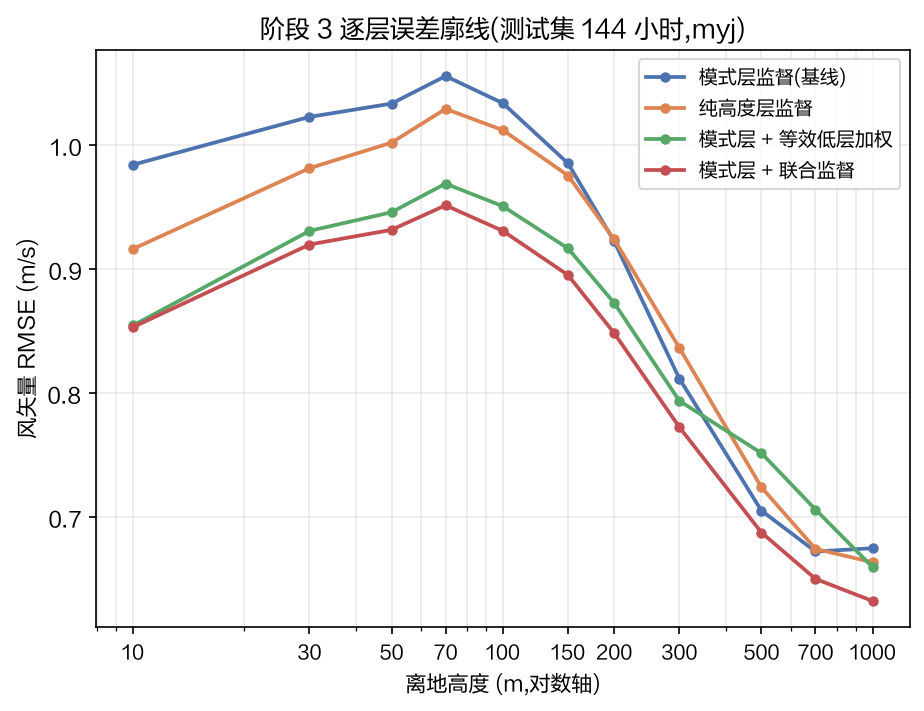
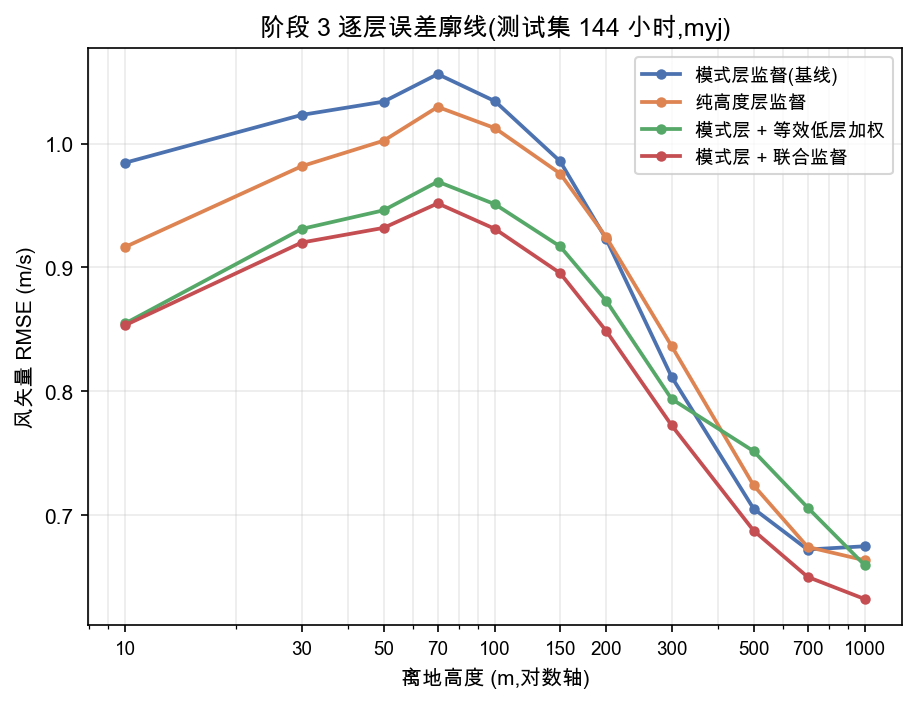
report 10-09: add case snapshot figure; fix CJK font fallback (all 10 figures re-rendered, were tofu boxes)

diff --git a/scripts/plot_report_10_09.py b/scripts/plot_report_10_09.py
@@ -11,8 +11,18 @@ matplotlib.use("Agg")
 import matplotlib.pyplot as plt
 import numpy as np
 
-plt.rcParams["font.family"] = "FZLanTingHeiS-R-GB"
 plt.rcParams["axes.unicode_minus"] = False
+# 中文字体:优先 FZLanTingHeiS-R-GB(原设定),缺失则按可用列表回退(避免渲染成方框)
+from matplotlib import font_manager as _fm  # noqa: E402
+
+_avail_fonts = {f.name for f in _fm.fontManager.ttflist}
+for _cand in ("FZLanTingHeiS-R-GB", "Arial Unicode MS", "PingFang HK", "Heiti TC",
+              "Hiragino Sans GB", "Songti SC", "STHeiti"):
+    if _cand in _avail_fonts:
+        plt.rcParams["font.family"] = _cand
+        break
+else:
+    plt.rcParams["font.family"] = "sans-serif"
 
 ROOT = os.path.dirname(os.path.dirname(os.path.abspath(__file__)))
 OUT = os.path.join(ROOT, "组会汇报", "2026-10-09")

diff --git a/组会汇报/2026-10-09/组会汇报-大纲阶段进展.md b/组会汇报/2026-10-09/组会汇报-大纲阶段进展.md
@@ -123,6 +123,10 @@
 
 > 读法:按地形陡峭程度与下垫面类型交叉分为四组,每组内从左至右为四个监督方案,标注数字为相对基线的变化。陡地形误差整体高于平坦地形,但联合监督在全部四组中一致改善,说明该方案的增益不依赖特定地形或下垫面条件,具有空间普适性。
 
+![强风个例四联对比](fig_case0_100m.png)
+
+> 读法:测试集内近地风速最强的个例(2020-07-19 05:00 UTC,域均值 11.5 m/s)在 100 m 高度的风速场。左上为 d04 真值,右上为粗端重网格输入(y0,平滑、无细结构),左下为基线预测,右下为联合监督预测。两个模型均恢复出真值中的条带状细结构;域均值上,联合监督(11.44 m/s)比基线(11.32 m/s)更接近真值(11.53 m/s)。
+
 ---
 
 ## 五、正在进行与下一步
